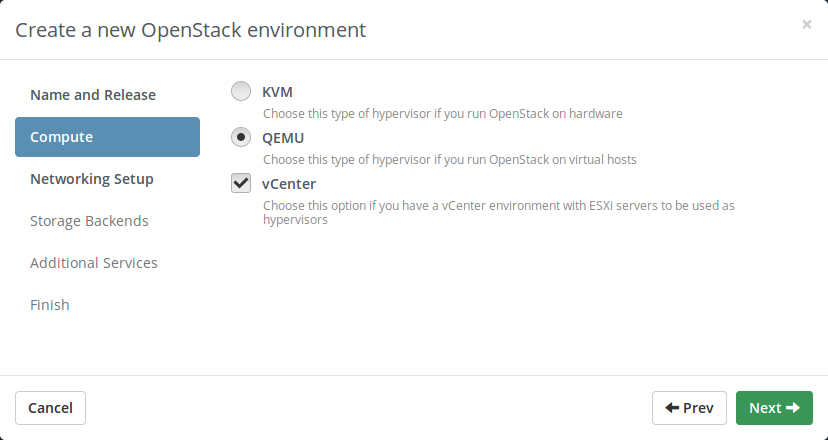
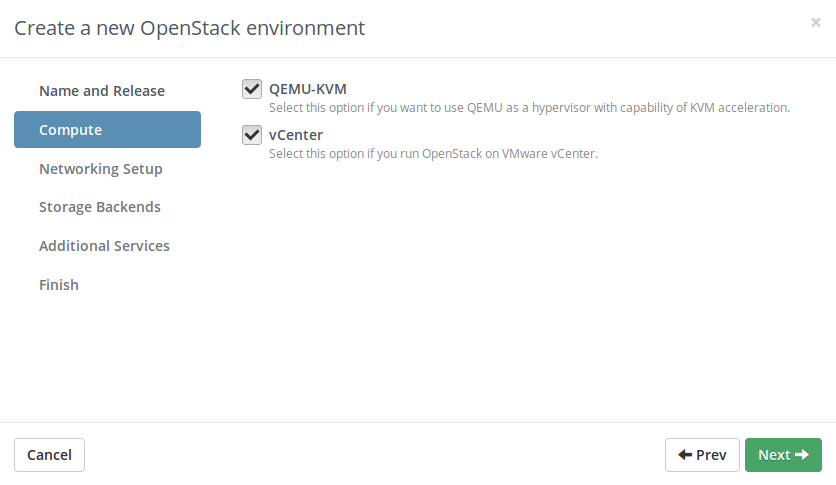
Update screenshots and documentation text
- add screenshots of plugin item in wizard
- add description for shared, exlusive and distributed router types
- add URL for Fuel plugin catalog
- small text improvments

diff --git a/doc/user/source/configuration.rst b/doc/user/source/configuration.rst
@@ -1,7 +1,7 @@
 Configuration
 =============
 
-Switch to Settings tab of the Fuel web UI and click on NSXv plugin section,
+Switch to Settings tab of the Fuel web UI and click on *Other* section,
 tick the plugin checkbox to enable it.
 
 .. image:: /image/nsxv-settings-filled.png
@@ -40,7 +40,7 @@ Plugin contains the following settings:
       This ID can be fetched using NSX Manager API
       https://nsx-manager.yourdomain.org/api/2.0/vdn/scopes
 
-#. Distributed virtual switch MoRef ID -- ID of vswitch connected to Edge
+#. Distributed virtual switch MoRef ID -- ID of vSwitch connected to Edge
    cluster.
 
 #. NSX backup Edge pool -- size of NSX Edge nodes and size of Edge pool, value
@@ -98,9 +98,6 @@ Plugin contains the following settings:
 #. Management network default gateway -- management network gateway for
    metadata proxy service.
 
-   Plugin automatically create tenant, provider networks and
-   router connected to these networks.
-
 #. Floating IP ranges -- dash separated IP addresses allocation pool from
    external network, e.g. "start_ip_address-end_ip_address".
 
@@ -131,14 +128,20 @@ Plugin contains the following settings:
    VM traffic (consider the case when VM was compromised).
 
 #. Tenant router types -- ordered list of preferred tenant router types (default
-   value is 'shared, distributed, exclusive').
+   value is ``shared, distributed, exclusive``).
+
+   * shared -- multiple shared routers may own one edge VM.
+   * exclusive -- each router own one edge VM.
+   * distributed -- same as exclusive, but edge is created as distributed
+     logical router.  VM traffic get routed via DLR kernel modules on each
+     ESXi host.
 
 #. Exclusive router size -- size of edge for exclusive router
    (value must be one of *compact*, *large*, *quadlarge* or *xlarge*).
 
-#. Edge user -- user that will be created on Edge VMs for remote login.
+#. Edge user -- user that will be created on edge VMs for remote login.
 
-#. Edge password -- password for Edge VMs.  It must match following rules:
+#. Edge password -- password for edge VMs.  It must match following rules:
 
    * not less 12 characters (max 255 chars)
    * at least 1 upper case letter
@@ -148,10 +151,10 @@ Plugin contains the following settings:
 
    .. warning::
 
-      Plugin cannot verify that password does conforms policy. If you enter
+      Plugin cannot verify that password conforms security policy. If you enter
       password that does not match policy, Neutron server will be not able to
       create routers and deployment process will stop, because NSX will not
-      permit creating Edge nodes with password that does not match security
+      permit creating edge nodes with password that does not match security
       policy.
 
 #. DHCP lease time -- DHCP lease time in seconds for VMs. Default value is

diff --git a/doc/user/source/environment.rst b/doc/user/source/environment.rst
@@ -17,31 +17,33 @@ these steps:
    .. image:: /image/wizard-step1.png
       :scale: 70 %
 
-#. After plugin gets installed it updates Fuel and it will be possible to use
-   *Neutron with tunneling segmentation* at 'Networking Setup' step:
+#. After plugin gets installed it will be possible to use *Neutron with
+   NSXv plugin* at 'Networking Setup' step:
 
    .. image:: /image/wizard-step2.png
       :scale: 70 %
 
    .. warning::
 
-      After Fuel database gets updated it is possible to enable Murano support
-      for cloud with NSX, but Murano functionality was not tested with NSX.
+      After plugin gets installed it is possible to enable Sahara and Murano
+      support for cloud with NSX, but work of these services was not tested
+      with NSX.
 
 #. Once you get environment created add one or more controller node.
 
-Pay attention on which interface you assign *Public* network, Controller must
-have connectivity with NSX Manager host through *Public* network since it is
-used as default route for packets.
+Pay attention on which interface you assign *Public* network, OpenStack
+controllers must have connectivity with NSX Manager host through *Public*
+network since it is used as default route for packets.
 
 Is is worth to mention that it is not possible to use compute nodes in this
-type of cluster, because NSX switch is not available for Linux only for ESXi,
-so it is not possible to pass traffic inside compute node that runs Linux and
-KVM.  Also it does not matter on which network interface you assign 'VM fixed'
-traffic, because it does not flow through controllers.
+type of cluster, because NSX switch is available only for ESXi, so it is not
+possible to pass traffic inside compute node that runs Linux and KVM.  Also it
+does not matter on which network interface you assign *Private* traffic,
+because it does not flow through controllers.
 
-*Floating IP ranges* are not used, because Neutron L3 agent is not used on
-Controller.
+*Floating IP range* settings on Networks are not used by the plugin, because it
+user interface restricts specifying IP range is not within *Public* network
+range.  Plugin has its own *Floating IP range* setting.
 
 .. image:: /image/floating-ip.png
    :scale: 70 %
@@ -49,9 +51,6 @@ Controller.
 Pay attention that Neutron L2/L3 configuration on Settings tab does not have
 effect in OpenStack cluster that uses NSXv.  These settings contain settings
 for GRE tunneling which does not have an effect with NSXv.
-
-.. image:: /image/neutron-network-settings.png
-   :scale: 70 %
 
 During deployment process plugin creates simple network topology for admin
 tenant. It creates provider network which connects tenants with transport

diff --git a/doc/user/source/usage.rst b/doc/user/source/usage.rst
@@ -33,7 +33,7 @@ groups functionality.
 Neutron usage notes
 -------------------
 
-The only way to create Distributed Router is to use neutron CLI tool:
+The only way to create distributed router is to use neutron CLI tool:
 
 .. code-block:: bash
 
@@ -49,15 +49,15 @@ Creation of exclusive tenant router is not supported in OpenStack dashboard
 During creation of external network for tenants you must specify physical
 network (``--provider:physical_network`` parameter) that will be used to carry
 VM traffic into physical network segment.  For Neutron with NSX plugin this
-parameter must be set to MoRef ID of portgroup which provides connectivity to
-NSX Edge nodes.
+parameter must be set to MoRef ID of portgroup which provides connectivity with
+physical network to NSX edge nodes.
 
 .. code-block:: bash
 
   $ neutron net-create External --router:external --provider:physical_network network-222
 
 Starting from version 2.0.0 plugin enables Neutron load balancing functionality
-and enables it in OpenStack dashboard (Horizon).
+and enables it in OpenStack dashboard.
 
 .. note::
 
@@ -125,6 +125,6 @@ Create a healthmonitor and associate it with the pool.
 OpenStack environment reset/deletion
 ------------------------------------
 
-Fuel NSXv plugin does not provide cleanup functionality when OpenStack
-environment gets reset or deleted.  All logical switches and edge virtual
-machines remain intact, it is up to operator to delete them and free resources.
+Fuel NSXv plugin does not provide cleanup mechanism when OpenStack environment
+gets reset or deleted.  All logical switches and edge virtual machines remain
+intact, it is up to operator to delete them and free resources.

diff --git a/doc/user/source/installation.rst b/doc/user/source/installation.rst
@@ -1,7 +1,7 @@
 Installation
 ============
 
-#. Download plugin .rpm package from the Fuel Plugin Catalog.
+#. Download plugin .rpm package from the `Fuel plugin catalog`_.
 
 #. Upload package to Fuel master node.
 
@@ -11,10 +11,6 @@ Installation
 
     [root@nailgun ~] fuel plugins --install nsxv-2.0-2.0.0-1.noarch.rpm
 
-
-   Installation process may take up to 1-2 minutes depending on hardware
-   specification of your Fuel Master node, because plugin has to update database
-   and restart docker containers.
 
 #. Verify that the plugin is installed successfully:
 
@@ -39,3 +35,5 @@ To uninstall plugin run following:
 .. code-block:: bash
 
    [root@nailgun ~] fuel plugins --remove nsxv==2.0.0
+
+.. _Fuel plugin catalog: https://www.mirantis.com/products/openstack-drivers-and-plugins/fuel-plugins

diff --git a/doc/user/index.rst b/doc/user/index.rst
@@ -19,7 +19,7 @@ Plugin versions:
 * 1.x.x series is compatible with Fuel 7.0. Tests were done on plugin v1.2 with
   VMware NSX 6.1.4.
 
-Through documentation we use term "NSX" and "NSXv" interchangeably, both of
+Through documentation we use terms "NSX" and "NSXv" interchangeably, both of
 these terms refer to `VMware NSX virtualized network platform
 <https://www.vmware.com/products/nsx>`_.
 
